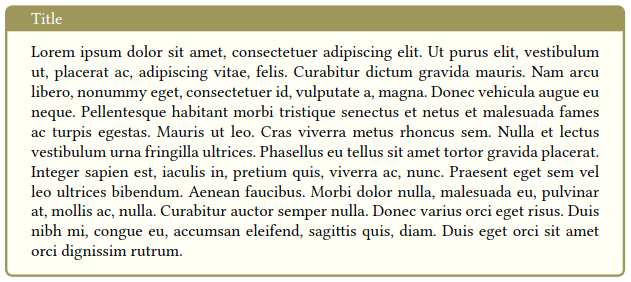
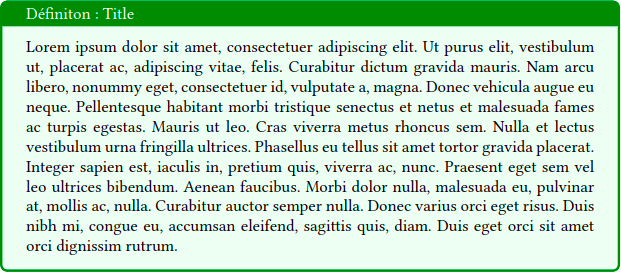
README: add custom env section

diff --git a/README.md b/README.md
@@ -144,7 +144,146 @@ You can install these extensions as well:
 ```
 </td>
 <td>
+<image src="docs/customEnvironements/colorboxwT.png" />
+</td>
+</tr>
+<tr>
+<td> simple colorbox without title </td>
+<td>
+
+```latex
+
+\begin{colorbox}{}{red}
+
+   Text in box
+
+\end{colorbox}
+
+
+```
+</td>
+<td>
+<image src="docs/customEnvironements/colorbox.png" />
+</td>
+</tr>
+<tr>
+<td> definition colorblock </td>
+<td>
+
+```latex
+
+\begin{definition}{Title}
+
+  Text in definition
+
+\end{definition}
+
+
+```
+
+</td>
+<td>
 <image src="docs/customEnvironements/definition.png" />
+</td>
+</tr>
+<tr>
+<td> definition* colorblock </td>
+<td>
+
+```latex
+
+\begin{definition*}
+
+  Text in definition
+
+\end{definition*}
+
+
+```
+
+</td>
+<td>
+<image src="docs/customEnvironements/definitionn.png" />
+</td>
+</tr>
+<tr>
+<td> exemple colorbox </td>
+<td>
+
+```latex
+
+\begin{exemple}{Title}
+
+  Text in example
+
+\end{exemple}
+
+
+```
+
+</td>
+<td>
+<image src="docs/customEnvironements/exemple.png" />
+</td>
+</tr>
+<tr>
+<td> exemple* colorbox </td>
+<td>
+
+```latex
+
+\begin{exemple*}
+
+  Text in example
+
+\end{exemple*}
+
+
+```
+
+</td>
+<td>
+<image src="docs/customEnvironements/exemplee.png" />
+</td>
+</tr>
+<tr>
+<td> attention colorblock </td>
+<td>
+
+```latex
+
+\begin{attention}{Title}
+
+   Text in warning box
+
+\end{attention}
+
+
+```
+
+</td>
+<td>
+<image src="docs/customEnvironements/attention.png" />
+</td>
+</tr>
+<tr>
+<td> vertAlign environement <i>(in a multicolumn with a lorem lipsum)</i></td>
+<td>
+
+```latex
+
+\begin{vertAlign}
+
+   Text in vertAlign
+
+\end{vertAlign}
+
+
+```
+
+</td>
+<td>
+<image src="docs/customEnvironements/vertAlign.png" />
 </td>
 </tr>
 </table>
